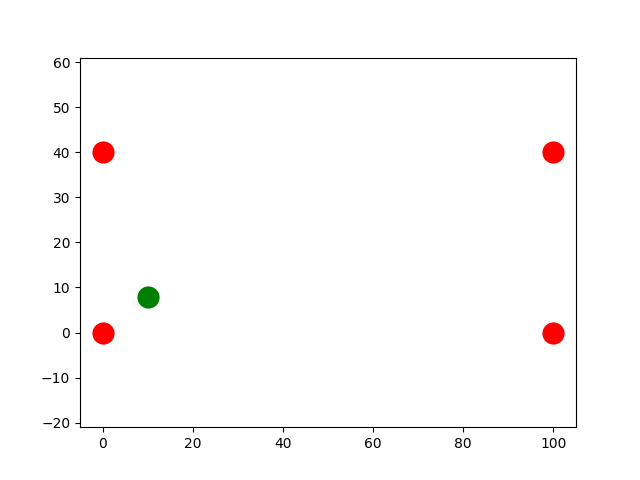
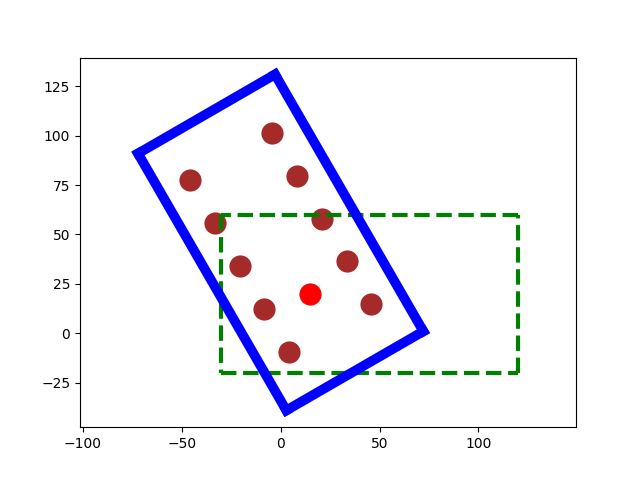
finished constructing a rotated rectangle around a given end effector location and orientation. A rotated search path is also produced which the PSM will follow as it searches for the vessel inside the box. Result is plotted. This is all in bounding_rectangle.py

diff --git a/src/stepping_stones/find_path.py b/src/stepping_stones/find_path.py
@@ -1,0 +1,82 @@
+'''
+Script for obtaining a search path in a given rectangle. It takes in 4 corners of the rectangle
+The rectangle is not rotated at all for now, 
+as we cen generate the path and then translate/rotate it according to where the end effector is
+'''
+
+import math
+import matplotlib.pyplot as plt
+
+# number of search columns
+sc = 5
+# dimensions of the rectangle
+width = 100
+height = 40
+# padding area on the inside of the height (0-1)
+height_padding = 0.2
+
+
+def get_search_path(ll,lr,ur,ul):
+    
+    # find size of the gaps between the columns (column spacing)
+    cs = width/(sc+1)
+
+    path = []
+    for col in range(1,sc+1):    
+        # get the first search coord in the rectangle (first coordinate)
+        first = [ll[0] + (cs*col), ll[1]+(0.2*height)]
+        second = [ll[0] + (cs*col), ll[1]+((1-height_padding)*height)]
+        path.append(first)
+        path.append(second)
+
+    # change the order of the items in the path such that a trajectory can be generated between them
+    # (make the path snake shaped rather than vertical lines)
+    ordered_path = []
+    switch = False
+    ignore = False
+    for idx,point in enumerate(path):
+        if ignore:
+            ignore = False
+            continue
+        if (idx%2 == 0) and not switch:
+            ordered_path.append(point)
+            switch = True
+            ignore = False
+        elif (idx%2 == 0) and switch:
+            # in this case, append the next point before this one
+            ordered_path.append(path[idx+1])
+            ordered_path.append(path[idx])
+            ignore = True
+            switch = False
+        else:
+            ordered_path.append(point)
+        
+    return ordered_path
+
+
+
+if __name__ == '__main__':
+    
+    ll = [0,0]
+    lr = [width,0]
+    ur = [width,height]
+    ul = [0,height]
+
+    corners = [ll,lr,ur,ul]
+
+    path = get_search_path(ll,lr,ur,ul)
+    # ------- PLOT -------------------
+
+    # initialise the plot
+    ax = plt.gca()
+    plt.axis('equal')
+
+    # plot the original corners in red
+    for point in corners:
+        ax.scatter(point[0], point[1], color='red',linewidth=10.0)
+    
+    # plot the path in green
+    for point in path:
+        ax.scatter(point[0], point[1], color='green',linewidth=10.0)
+    
+    plt.savefig('hamada.png') 

diff --git a/src/bounding_rectangle.py b/src/bounding_rectangle.py
@@ -20,6 +20,7 @@ Outputs:
 
 import math
 import matplotlib.pyplot as plt
+from matplotlib.patches import Rectangle
 
 # dimensions of bounding rectangle
 rec_wid = 150
@@ -117,18 +118,34 @@ def plot_all(original_corners, rotated_corners, rotated_path):
 
     # plot the gripper location in red
     ax.scatter(gl[0], gl[1], color='red',linewidth=10.0)
-
-    # plot original rectangle in green
-    for point in original_corners:
-        ax.scatter(point[0], point[1], color='green',linewidth=10.0)
-
-    # plot rotated rectangle in blue
-    for point in rotated_corners:
-        ax.scatter(point[0], point[1], color='blue',linewidth=10.0)
     
     # plot the final path in brown
     for point in rotated_path:
         ax.scatter(point[0], point[1], color='brown',linewidth=10.0)
+    
+    # draw the original rectangle
+    for coord_idx in range (0,len(original_corners)):
+        print(coord_idx)
+        if coord_idx == len(original_corners)-1:
+            print('yalla')
+            x_values = [original_corners[coord_idx][0], original_corners[0][0]]
+            y_values = [original_corners[coord_idx][1], original_corners[0][1]]
+        else:
+            x_values = [original_corners[coord_idx][0], original_corners[coord_idx+1][0]]
+            y_values = [original_corners[coord_idx][1], original_corners[coord_idx+1][1]]
+        plt.plot(x_values, y_values, '--',linewidth=3.0,zorder=1,color='green')
+
+    # draw the rotated rectangle
+    for coord_idx in range (0,len(rotated_corners)):
+        print(coord_idx)
+        if coord_idx == len(rotated_corners)-1:
+            print('yalla')
+            x_values = [rotated_corners[coord_idx][0], rotated_corners[0][0]]
+            y_values = [rotated_corners[coord_idx][1], rotated_corners[0][1]]
+        else:
+            x_values = [rotated_corners[coord_idx][0], rotated_corners[coord_idx+1][0]]
+            y_values = [rotated_corners[coord_idx][1], rotated_corners[coord_idx+1][1]]
+        plt.plot(x_values, y_values,linewidth=7.0,zorder=1,color='blue')
 
     plt.savefig('hamada.png')   
 
